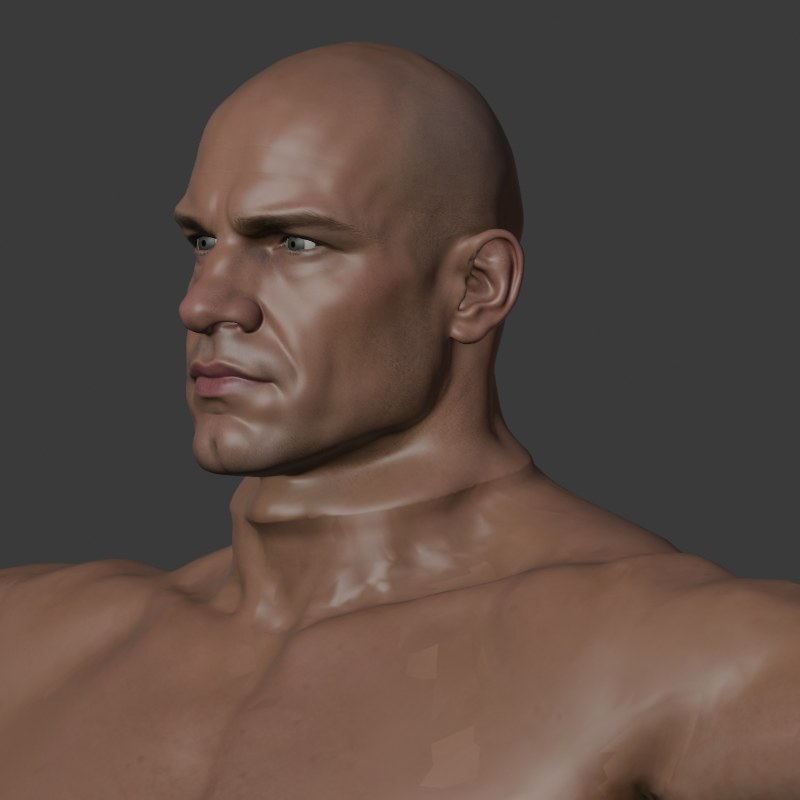
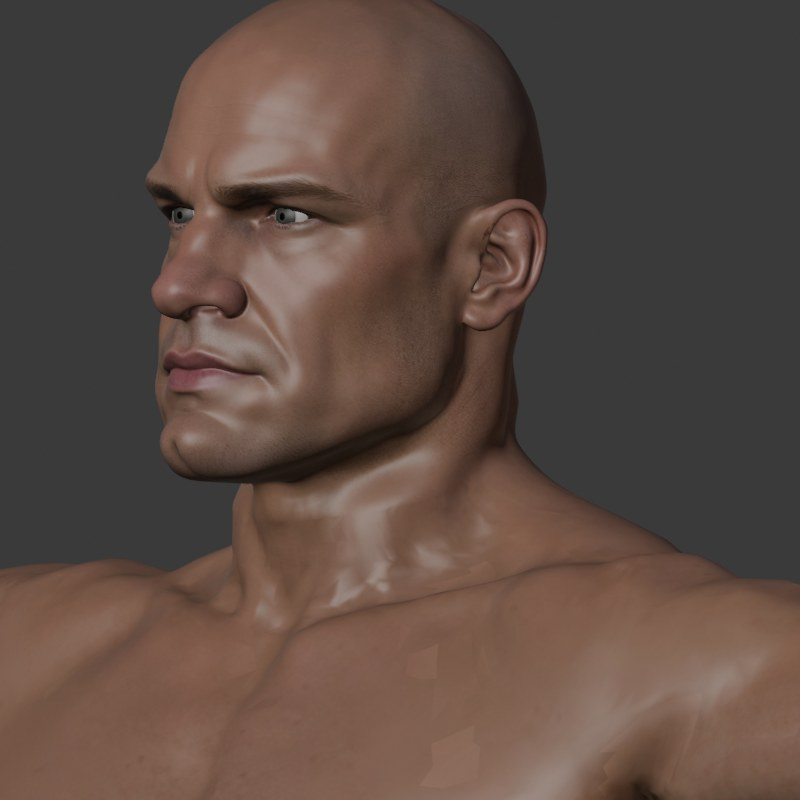
Heads keep their size reliably (Moti: WarriorM2's head "is much to small... we need relaiable way to keep sizes"). A head is sized by its chin to its crown (head.py, then neck.py against the body's own head) and seated by its chin, so the chin must be right. face.py found WarriorM2's chin on its nec

Changed region(s): [[0.1875, 0.0, 0.6875, 0.6875]]

diff --git a/ai_models/head.py b/ai_models/head.py
@@ -21,6 +21,7 @@ from face import profile
 ROOT = os.path.join(HERE, NAME)
 OUT = os.path.join(ROOT, "build", "forge", TITLE)
 HEAD_HEIGHT = 0.232  # chin to crown, an adult man's
+EYES_OVER_HEIGHT = (0.27, 0.32)  # the eyes' middles apart over chin to crown, a face's (WarriorM 0.281, WarriorM2 0.297)
 MAP_SIZE = 4096
 SKIN_SHINE = 0.6  # Tripo's roughness read as URP smoothness looks wet (oily lips and brow): skin shines this much of it
 
@@ -112,6 +113,14 @@ skin = image_of("Base Color")
 eyes = give_eyes(head, skin, TITLE, OUT, os.path.join(ROOT, "checks"), nose_tip)
 eye_pictures(head, skin, eyes, os.path.join(ROOT, "checks"))
 print("EYES", json.dumps(eyes))
+# The size cross-checked by the eyes: their spacing over the chin to the crown is a face's proportion, so a chin found
+# in the wrong place (head_face_1's was on the neck: a head 13% small, seated high) stops the build here.
+spacing = abs(eyes["right"]["eyeball"]["centre_m"][0] - eyes["left"]["eyeball"]["centre_m"][0])
+eyes["spacing_over_height"] = round(spacing / HEAD_HEIGHT, 3)
+if not EYES_OVER_HEIGHT[0] <= spacing / HEAD_HEIGHT <= EYES_OVER_HEIGHT[1]:
+    raise SystemExit(f"HEAD the eyes are {spacing * 1000:.1f} mm apart on a head {HEAD_HEIGHT * 100:.1f} cm chin to crown "
+                     f"({spacing / HEAD_HEIGHT:.3f}, a face's is {EYES_OVER_HEIGHT[0]} to {EYES_OVER_HEIGHT[1]}): its chin "
+                     f"or crown was found in the wrong place")
 
 base = pixels(skin, MAP_SIZE)
 base[..., 3] = 1.0

diff --git a/ai_models/face.py b/ai_models/face.py
@@ -13,7 +13,10 @@ def profile(co):
     of the height (about 1 cm of a bust; finer slices of the 4% strip are often empty)."""
     width = co[:, 0].max() - co[:, 0].min()
     crown, floor = co[:, 2].max(), co[:, 2].min()
-    middle = co[np.abs(co[:, 0] - (co[:, 0].max() + co[:, 0].min()) / 2) < width * 0.02]
+    # The strip down the face's middle, its front half only: a slice with no point in front would otherwise take
+    # the back of the neck's for the face's, and that step back read as the chin (head_face_1: a head 13% too small).
+    middle = co[(np.abs(co[:, 0] - (co[:, 0].max() + co[:, 0].min()) / 2) < width * 0.02)
+                & (co[:, 1] < (co[:, 1].max() + co[:, 1].min()) / 2)]
     step = (crown - floor) / 100
     bins = {}
     for x, y, z in middle:
